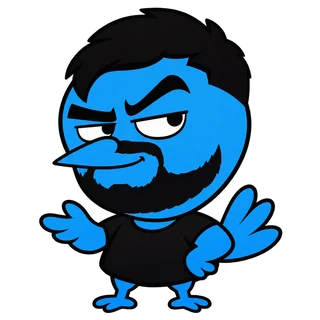
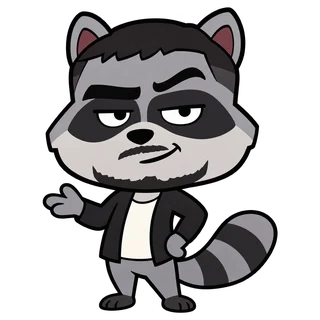
Nueva imagen de Rufi Impresoras (mapache)
Claude-Session: https://claude.ai/code/session_01GFFGmXcYxj9spAgAJ4X5Tf

diff --git a/index.html b/index.html
@@ -553,7 +553,7 @@ const SN={atk:'Ataque',def:'Defensa',spa:'Ataque Esp.',spd:'Defensa Esp.',spe:'V
 const ART={atk:'el',def:'la',spa:'el',spd:'la',spe:'la'};
 const STLBL={par:['EN BLANCO','#c99a1a'],brn:['QUEMADO','#d2492f'],slp:['SIESTA','#6c6577'],frz:['DE PIEDRA','#3e9fb3']};
 const LV=50;
-const IMG=id=>`img/${id}.webp?v=3`;
+const IMG=id=>`img/${id}.webp?v=4`;
 const monImg=m=>IMG(m.pana?'felipe82':m.p.id);
 const F82=['rosa','ave','votos','hijo'];
 let UNL={felipe:false};try{UNL.felipe=localStorage.getItem('polimon-legend-felipe')==='1';}catch(_){}
